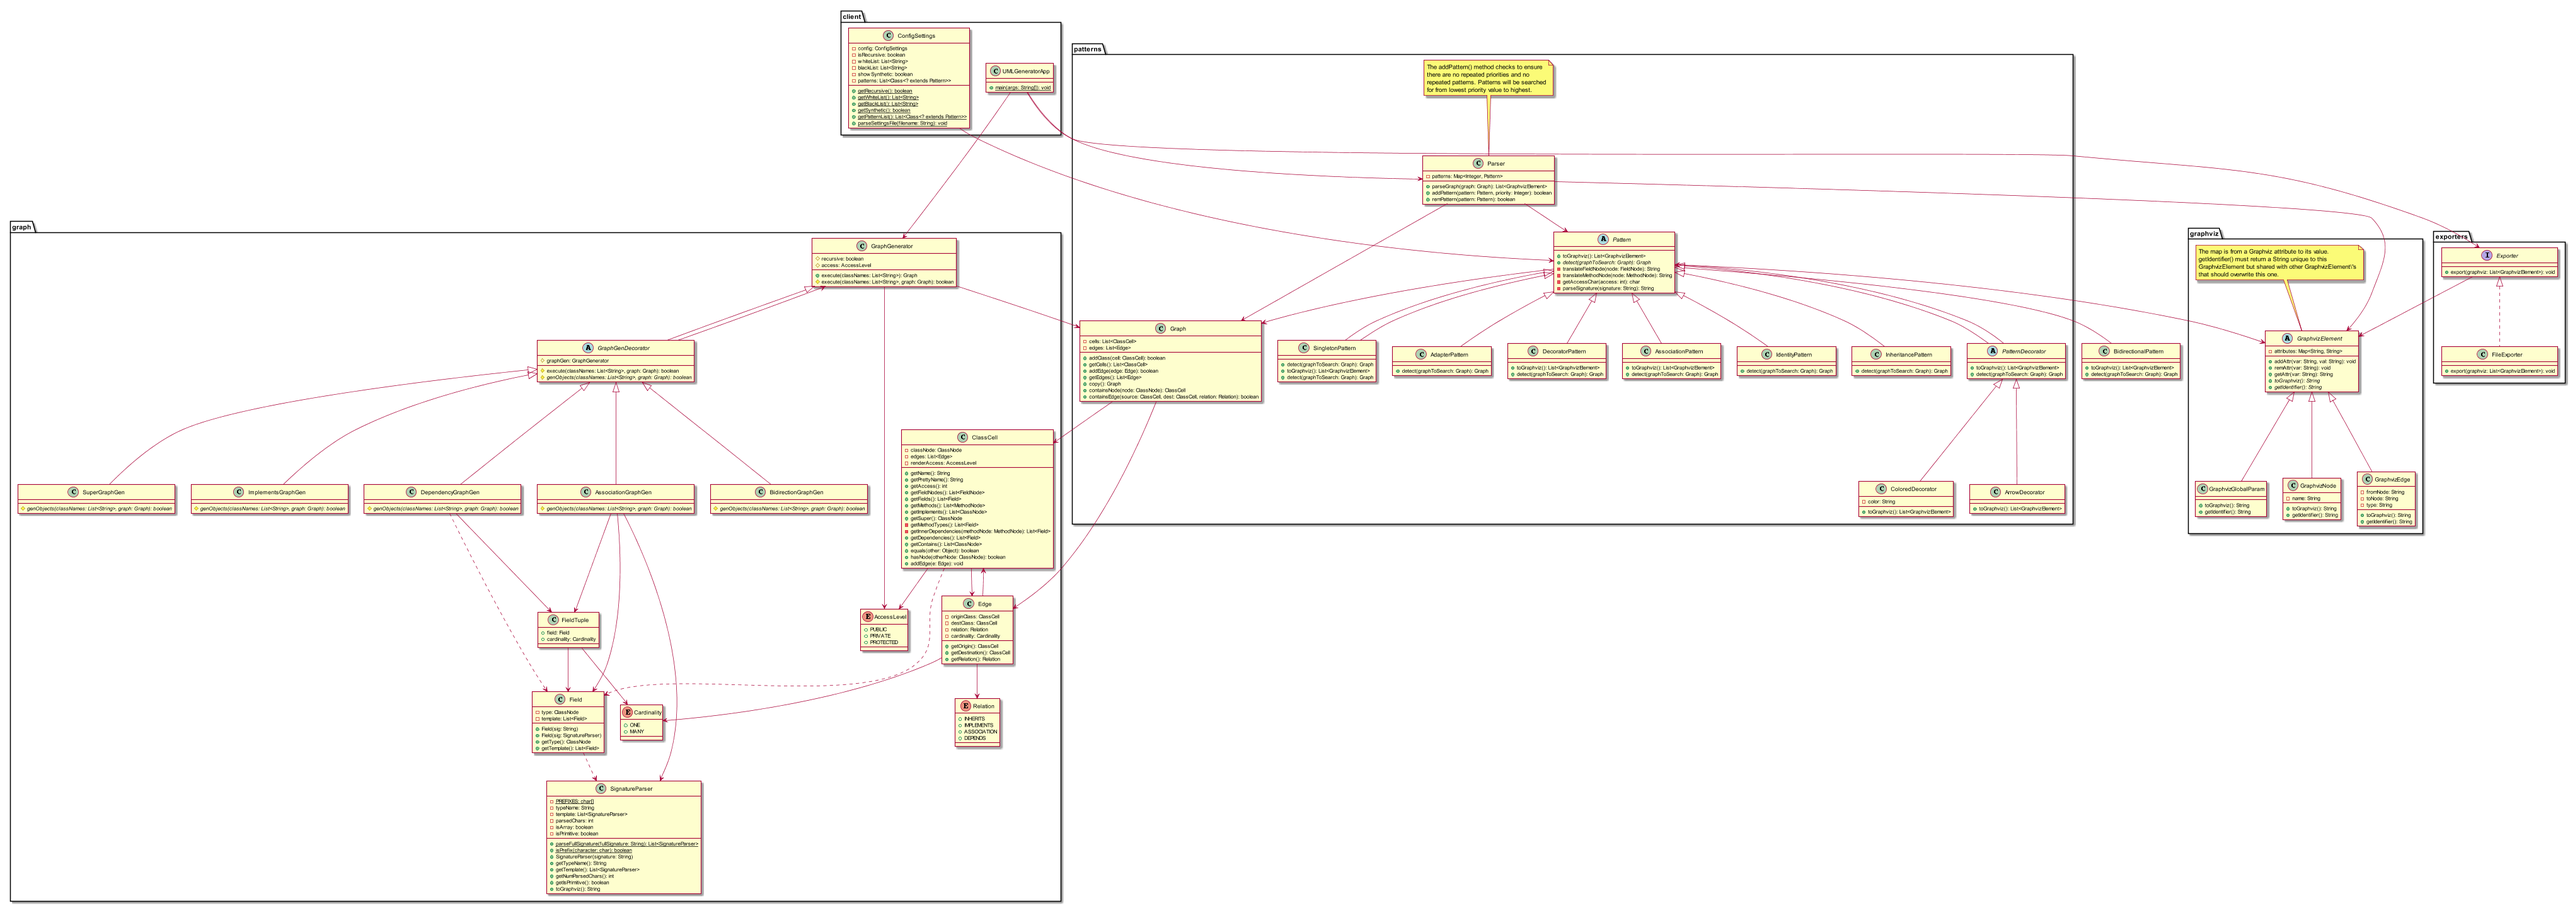
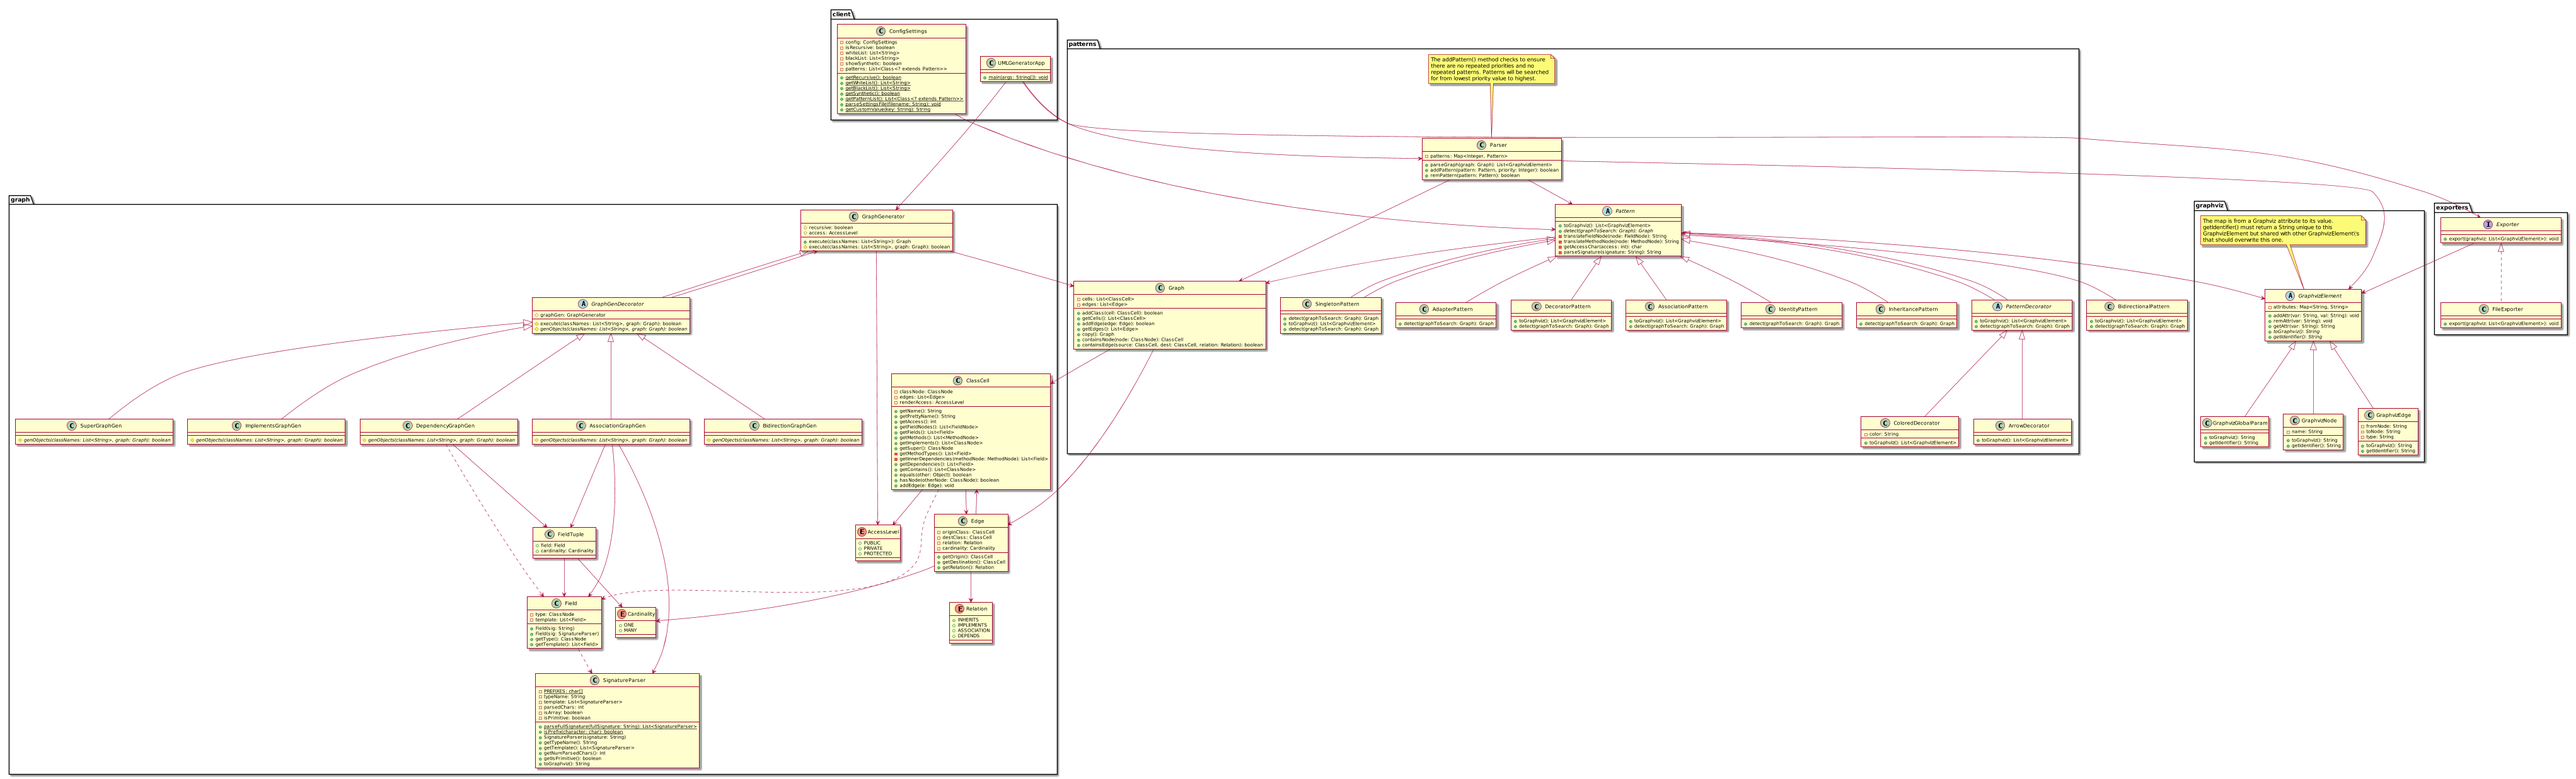
Created and implemented ConfigSettings class.

diff --git a/src/client/ConfigSettings.java b/src/client/ConfigSettings.java
@@ -1,0 +1,165 @@
+package client;
+
+import graph.AccessLevel;
+import graph.ClassCell;
+import patterns.Pattern;
+import patterns.PatternDecorator;
+
+import java.io.FileInputStream;
+import java.io.FileNotFoundException;
+import java.io.IOException;
+import java.util.ArrayList;
+import java.util.List;
+import java.util.Properties;
+
+/**
+ * Created by lewis on 1/20/17.
+ */
+public class ConfigSettings {
+    private static final String SETTINGS_FLAG = "--settings=";
+    private static final String DEFAULT_SETTINGS_FILE = "/home/lewis/curr-programs/uml-generator/config/settings.txt";
+    private static final String RECURSIVE_TAG = "recursive";
+    private static final String SYNTHETIC_TAG = "synthetic";
+    private static final String WHITELIST_TAG = "include";
+    private static final String BLACKLIST_TAG = "exclude";
+    private static final String PATTERNS_TAG = "patterns";
+    private static final String ACCESS_TAG = "access";
+
+    private static boolean isRecursive = false;
+    private static boolean showSynthetic = true;
+    private static List<String> whiteList = new ArrayList<>();
+    private static List<String> blackList = new ArrayList<>();
+    private static List<Pattern> patterns = new ArrayList<>();
+    private static AccessLevel accessLevel = AccessLevel.PRIVATE;
+    private static Properties properties;
+
+    public static boolean getRecursive() {
+        return isRecursive;
+    }
+
+    public static boolean getShowSynthetic() {
+        return showSynthetic;
+    }
+
+    public static List<String> getWhiteList() {
+        return whiteList;
+    }
+
+    public static List<String> getBlackList() {
+        return blackList;
+    }
+
+    public static List<Pattern> getPatterns() {
+        return patterns;
+    }
+
+    public static AccessLevel getAccessLevel() {
+        return accessLevel;
+    }
+
+    public static String getAssociatedVal(String key) {
+        return properties.getProperty(key);
+    }
+
+    public static void setupConfig(String[] args) throws IOException {
+        for (String arg : args) {
+            if (arg.contains(SETTINGS_FLAG)) {
+                properties = new Properties();
+                properties.load(new FileInputStream(arg.substring(SETTINGS_FLAG.length())));
+                break;
+            }
+        }
+
+        if (properties == null) {
+            properties = new Properties();
+            properties.load(new FileInputStream(DEFAULT_SETTINGS_FILE));
+        }
+
+        String buff;
+        buff = properties.getProperty(RECURSIVE_TAG, "");
+        if (buff.equals("true")) {
+            isRecursive = true;
+        } else if (buff.equals("false")) {
+            isRecursive = false;
+        }
+
+        buff = properties.getProperty(SYNTHETIC_TAG, "");
+        if (buff.equals("true")) {
+            showSynthetic = true;
+        } else if (buff.equals("false")) {
+            showSynthetic = false;
+        }
+
+        buff = properties.getProperty(WHITELIST_TAG, "");
+        if (!buff.equals("")) {
+            for (String className : buff.split(" ")) {
+                whiteList.add(className);
+            }
+        }
+
+        buff = properties.getProperty(BLACKLIST_TAG, "");
+        if (!buff.equals("")) {
+            for (String packPref : buff.split(" ")) {
+                blackList.add(packPref);
+            }
+        }
+
+        buff = properties.getProperty(PATTERNS_TAG, "");
+        if (!buff.equals("")) {
+            String[] patChains = buff.split(";");
+            for (int j = 0; j < patChains.length; j++) {
+                String[] classNames = patChains[j].split(" ");
+                Pattern patt;
+                PatternDecorator dec;
+                if (classNames.length == 0) {
+                    continue;
+                }
+
+                try {
+                    patt = (Pattern) Class.forName(classNames[0]).newInstance();
+
+
+                    for (int i = 1; i < classNames.length; i++) {
+                        dec = (PatternDecorator) Class.forName(classNames[i]).newInstance();
+                        dec.setInner(patt);
+
+                        patt = dec;
+                    }
+
+                    patterns.add(patt);
+                } catch (InstantiationException | IllegalAccessException | ClassNotFoundException e) {
+                    e.printStackTrace();
+                }
+            }
+        }
+
+        buff = properties.getProperty(ACCESS_TAG, "");
+        if (buff.equals("public")) {
+            accessLevel = AccessLevel.PUBLIC;
+        } else if (buff.equals("private")) {
+            accessLevel = AccessLevel.PRIVATE;
+        } else if (buff.equals("protected")) {
+            accessLevel = AccessLevel.PROTECTED;
+        }
+
+        for (String arg : args) {
+            switch(arg) {
+            case "-r":
+            case "--recursive":
+                isRecursive = true;
+                break;
+            case "--public":
+                accessLevel = AccessLevel.PUBLIC;
+                break;
+            case "--private":
+                accessLevel = AccessLevel.PRIVATE;
+                break;
+            case "--protected":
+                accessLevel = AccessLevel.PROTECTED;
+            default:
+                whiteList.add(arg);
+                break;
+            }
+        }
+    }
+}

diff --git a/src/client/UMLGeneratorApp.java b/src/client/UMLGeneratorApp.java
@@ -10,6 +10,7 @@ import graph.ImplementsGraphGen;
 import graph.SuperGraphGen;
 import graphviz.GraphvizElement;
 
+import java.io.IOException;
 import java.util.ArrayList;
 import java.util.List;
 
@@ -21,40 +22,27 @@ import patterns.Pattern;
 
 public class UMLGeneratorApp {
     public static void main(String[] args) {
-        List<String> classNames = new ArrayList<>();
-        boolean recursive = false;
-        AccessLevel accessLevel = AccessLevel.PRIVATE;
-        for (String className : args) {
-            switch(className) {
-            case "-r":
-            case "--recursive":
-                recursive = true;
-            break;
-            case "--public":
-                accessLevel = AccessLevel.PUBLIC;
-                break;
-            case "--private":
-                accessLevel = AccessLevel.PRIVATE;
-                break;
-            case "--protected":
-                accessLevel = AccessLevel.PROTECTED;
-            default:
-                classNames.add(className);
-                break;
-            }
+        try {
+            ConfigSettings.setupConfig(args);
+        } catch (IOException e) {
+            System.err.println("Failed to read settings file.");
         }
 
-        GraphGenerator generator = new GraphGenerator(recursive, accessLevel);
+        GraphGenerator generator = new GraphGenerator(ConfigSettings.getRecursive(), ConfigSettings.getAccessLevel());
         generator = new ImplementsGraphGen(generator);
         generator = new SuperGraphGen(generator);
-        generator = new AssociationGraphGen(generator);
-        generator = new DependencyGraphGen(generator);
-        Graph g = generator.execute(classNames);
+//        generator = new AssociationGraphGen(generator);
+//        generator = new DependencyGraphGen(generator);
+
+        Graph g = generator.execute(ConfigSettings.getWhiteList());
+
         Parser parser = new Parser();
-        Pattern idPattern = new IdentityPattern();
-        parser.addPattern(idPattern, 0);
-        parser.addPattern(new DependencyPattern(), 1);
-        parser.addPattern(new AssociationPattern(), 2);
+        List<Pattern> patterns = ConfigSettings.getPatterns();
+        parser.addPattern(new IdentityPattern(), 0);
+        for (int i = 0; i < patterns.size(); i++) {
+            parser.addPattern(patterns.get(i), i + 1);
+        }
+
         List<GraphvizElement> elements = parser.parseGraph(g);
         Exporter fileExporter = new FileExporter("./output/out.dot");
         fileExporter.export(elements);

diff --git a/src/patterns/PatternDecorator.java b/src/patterns/PatternDecorator.java
@@ -13,4 +13,7 @@ public abstract class PatternDecorator extends Pattern {
         return this.innerPattern.detect(graphToSearch);
     }
 
+    public void setInner(Pattern inner) {
+        this.innerPattern = inner;
+    }
 }
